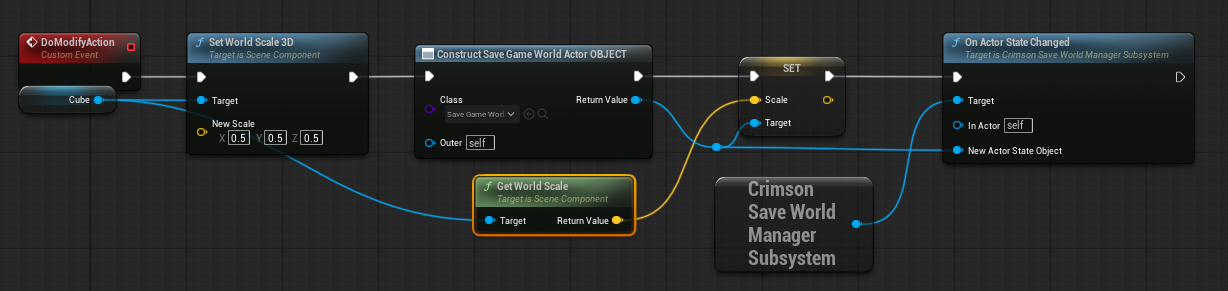
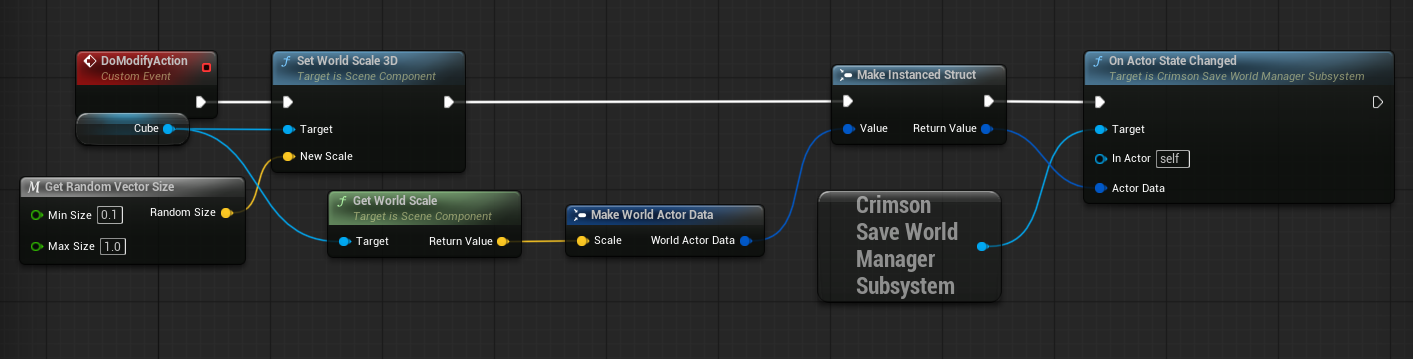
Update FInstancedStruct changes.

diff --git a/homepage/saving-world-data-bp.html b/homepage/saving-world-data-bp.html
@@ -32,17 +32,16 @@
             <p>This guide is for Blueprints. For a C++ approach, <a href="saving-world-data-cpp.html">see the C++ guide</a>.</p>
         </div>
 
-        <h2>Step 1: Create Your Actor Data Object (Optional)</h2>
-        <p>The manager stores a <code>UObject*</code> payload for each actor. It's good practice to create a simple <code>UObject</code> Blueprint to hold this data.</p>
+        <h2>Step 1: Create Your Actor Data Struct (Optional)</h2>
+        <p>The manager stores an <code>FInstancedStruct</code> payload for each actor. It's good practice to create a simple <strong>Struct</strong> Blueprint to hold this data.</p>
         <ol>
-            <li>Right-click in the Content Browser -> <strong>Blueprint Class</strong>.</li>
-            <li>Select <strong>Object</strong> as the parent class.</li>
-            <li>Name it <code>BP_ChestData</code>.</li>
-            <li>Open it and add a variable <code>bHasBeenOpened</code> of type Boolean.</li>
+            <li>Right-click in the Content Browser -> <strong>Blueprints</strong> -> <strong>Structure</strong>.</li>
+            <li>Name it <code>Struct_WorldActorData</code>.</li>
+            <li>Open it and add a variable <code>Scale</code> of type Vector.</li>
         </ol>
         
         <h2>Step 2: Implement the Interface</h2>
-        <p>In your Actor Blueprint (e.g., <code>BP_SaveableChest</code>), add the <code>ICrimsonSaveableActor</code> interface.</p>
+        <p>In your Actor Blueprint (e.g., <code>SaveGame_WorldActor</code>), add the <code>ICrimsonSaveableActor</code> interface.</p>
         <ol>
             <li>Go to <strong>Class Settings</strong> in the toolbar.</li>
             <li>In the Details panel, find the "Interfaces" section.</li>
@@ -51,7 +50,7 @@
             <li>Click the "eye" icon to make it <strong>Instance Editable</strong>.</li>
         </ol>
         <div class="note">
-            <p><strong>CRITICAL:</strong> After placing <code>BP_SaveableChest</code> in your level, you <strong>must</strong> select it, go to the Details panel, and click the "Generate new GUID" button next to your <code>SaveID</code> variable. Each instance *must* have a unique ID.</p>
+            <p><strong>CRITICAL:</strong> After placing <code>SaveGame_WorldActor</code> in your level, you <strong>must</strong> select it, go to the Details panel, and click the "Generate new GUID" button next to your <code>SaveID</code> variable. Each instance *must* have a unique ID.</p>
         </div>
 
         <h2>Step 3: Implement Interface Functions</h2>
@@ -59,31 +58,30 @@
 
         <h3>GetSaveID</h3>
         <p>Double-click this function. Drag in your <code>SaveID</code> variable and connect it to the <code>Return Value</code>.</p>
-        <img src="assets/get-save-id.png" alt="Get SaveID" style="width: 100%;">
+        <img src="assets/get-save-id.png" alt="Get SaveID function returning the SaveID variable" style="width: 100%;">
 
         <h3>RestoreFromSaveData</h3>
-        <p>This function applies the saved data to your actor.</p>
+        <p>This function applies the saved data to your actor. The <code>Actor Data</code> input is now an <code>Instanced Struct</code>.</p>
         <ol>
-            <li>Drag off the <code>Actor Data</code> input pin and <code>Cast To BP_ChestData</code>.</li>
-            <li>If the cast succeeds, get the <code>bHasBeenOpened</code> variable from the <code>BP_ChestData</code>.</li>
-            <li>Set your actor's live variable (e.g., <code>bIsOpen</code>) with this saved value.</li>
-            <li>Call any events needed to visually update the chest (e.g., play the "open" animation).</li>
+            <li>Drag off the <code>Actor Data</code> input pin and use the <strong>Get Instanced Struct Value</strong> node.</li>
+            <li>Drag from the <code>Value</code> on this node and break it into its correct type, in this case <code>Struct_WorldActorData</code>.</li>
+            <li>Set your actor's live variable (e.g., <code>Scale</code>) with this saved value.</li>
+            <li>Call any events needed to visually update the actor (e.g., play the "scaling" animation).</li>
         </ol>
-        <img src="assets/restore-from-save-data.png" alt="Restore From Save Data" style="width: 100%;">
+        <img src="assets/restore-from-save-data.png" alt="Restore From Save Data using Get Struct Data node" style="width: 100%;">
 
         <h2>Step 4: Notify the Manager of Changes</h2>
         <p>Your actor *must* tell the <code>WorldManager</code> when its state changes. The manager doesn't poll; it relies on notifications.</p>
         <p>In your <code>OnInteract</code> or similar event:</p>
         <ol>
             <li>Get the <code>CrimsonSaveWorldManagerSubsystem</code>.</li>
-            <li><code>Create Object from Class</code> -> <code>BP_ChestData</code>.</li>
-            <li>Set the <code>bHasBeenOpened</code> on the new object to <code>true</code>.</li>
-            <li>Call <code>OnActorStateChanged</code> on the subsystem. Pass <code>self</code> for "In Actor" and the new <code>BP_ChestData</code> object for "New Actor State Object".</li>
+            <li>Use the <strong>Make Instanced Struct</strong> node. Set <code>Value</code> by making a  <code>Struct_WorldActorData</code> and setting is current <code>scale</code> value.</li>
+            <li>Call <code>OnActorStateChanged</code> on the subsystem. Pass <code>self</code> for "In Actor" and the return value from <strong>Make Instanced Struct</strong> for "Actor Data".</li>
         </ol>
-        <img src="assets/notify-world-manager.png" alt="Notify World Manager" style="width: 100%;">
+        <img src="assets/notify-world-manager.png" alt="Notify World Manager using Make Instanced Struct" style="width: 100%;">
 
-        <p>If your actor is destroyed, call <code>OnActorDestroyed</code> instead, passing <code>self</code>.</p>
-        <img src="assets/on-actor-destroyed.png" alt="On Actor Destroyed" style="width: 100%;">
+        <p>If your actor is destroyed, call <code>OnActorDestroyed</code> instead, passing <code>self</code> and an optional <code>Instanced Struct</code> for any final state.</p>
+        <img src="assets/on-actor-destroyed.png" alt="On Actor Destroyed node" style="width: 100%;">
 
         <div class="navigation-buttons">
             <a href="saving-world-data-cpp.html" class="nav-button">← Saving World Data (C++)</a>

diff --git a/homepage/saving-world-data-cpp.html b/homepage/saving-world-data-cpp.html
@@ -31,19 +31,19 @@
             <p>This guide is for C++ programmers. For a Blueprint-only approach, <a href="saving-world-data-bp.html">see the Blueprint guide</a>.</p>
         </div>
 
-        <h2>Step 1: Create Your Actor Data Object (Optional)</h2>
-        <p>The manager stores a <code>UObject*</code> payload for each actor. It's good practice to create a simple <code>UObject</code> class to hold this data.</p>
+        <h2>Step 1: Create Your Actor Data Struct (Optional)</h2>
+        <p>The manager stores an <code>FInstancedStruct</code> payload for each actor. It's good practice to create a simple <code>USTRUCT</code> to hold this data.</p>
 <pre><code>// MySaveableChestData.h
 #pragma once
 #include "MySaveableChestData.generated.h"
 
-UCLASS()
-class UMySaveableChestData : public UObject
+USTRUCT(BlueprintType)
+struct FMySaveableChestData
 {
     GENERATED_BODY()
 public:
     UPROPERTY()
-    bool bHasBeenOpened;
+    bool bHasBeenOpened = false;
 };
 </code></pre>
         
@@ -52,6 +52,7 @@ public:
 <pre><code>// MySaveableChest.h
 #pragma once
 #include "ICrimsonSaveableActor.h"
+#include "StructUtils/InstancedStruct.h"
 #include "MySaveableChest.generated.h"
 
 UCLASS()
@@ -63,7 +64,7 @@ public:
     // --- ICrimsonSaveableActor Interface ---
     virtual FGuid GetSaveID_Implementation() const override;
     virtual void ResetToDefaultState_Implementation() override;
-    virtual void RestoreFromSaveData_Implementation(UObject* ActorData) override;
+    virtual void RestoreFromSaveData_Implementation(const FInstancedStruct& ActorData) override;
     // --- End Interface ---
     
     // The actor's live property
@@ -89,9 +90,9 @@ FGuid AMySaveableChest::GetSaveID_Implementation() const
     return SaveID;
 }
 
-void AMySaveableChest::RestoreFromSaveData_Implementation(UObject* ActorData)
+void AMySaveableChest::RestoreFromSaveData_Implementation(const FInstancedStruct& ActorData)
 {
-    if (UMySaveableChestData* ChestData = Cast&lt;UMySaveableChestData&gt;(ActorData))
+    if (const FMySaveableChestData* ChestData = ActorData.GetPtr&lt;FMySaveableChestData&gt;())
     {
         this->bIsOpen = ChestData->bHasBeenOpened;
         
@@ -106,6 +107,7 @@ void AMySaveableChest::RestoreFromSaveData_Implementation(UObject* ActorData)
 <pre><code>// MySaveableChest.cpp
 #include "CrimsonSaveWorldManagerSubsystem.h"
 #include "MySaveableChestData.h"
+#include "StructUtils/InstancedStruct.h"
 
 void AMySaveableChest::OnInteract_OpenChest()
 {
@@ -117,26 +119,27 @@ void AMySaveableChest::OnInteract_OpenChest()
     // --- NOTIFY THE SAVE SYSTEM ---
     if (UCrimsonSaveWorldManagerSubsystem* WorldSaveManager = GetWorld()->GetSubsystem&lt;UCrimsonSaveWorldManagerSubsystem&gt;())
     {
-        // Create the payload object
-        UMySaveableChestData* ChestData = NewObject&lt;UMySaveableChestData&gt;();
-        ChestData->bHasBeenOpened = true;
+        // Create the payload struct
+        FMySaveableChestData ChestData;
+        ChestData.bHasBeenOpened = true;
         
-        // Send the new state to the manager
-        WorldSaveManager->OnActorStateChanged(this, ChestData);
+        // Send the new state to the manager, wrapped in an FInstancedStruct
+        WorldSaveManager->OnActorStateChanged(this, FInstancedStruct::Make(ChestData));
     }
 }
 </code></pre>
         <p>If your actor is permanently destroyed (like a breakable wall), you should call <code>OnActorDestroyed</code> instead.</p>
 <pre><code>// MyBreakableWall.cpp
 #include "CrimsonSaveWorldManagerSubsystem.h"
+#include "StructUtils/InstancedStruct.h"
 
 void AMyBreakableWall::OnTakeDamage_Destroy()
 {
     // --- NOTIFY THE SAVE SYSTEM ---
     if (UCrimsonSaveWorldManagerSubsystem* WorldSaveManager = GetWorld()->GetSubsystem&lt;UCrimsonSaveWorldManagerSubsystem&gt;())
     {
-        // Pass 'nullptr' as the payload, we just care that it's destroyed
-        WorldSaveManager->OnActorDestroyed(this, nullptr);
+        // Pass an empty FInstancedStruct, we just care that it's destroyed
+        WorldSaveManager->OnActorDestroyed(this, FInstancedStruct());
     }
     
     // ... (spawn effects, etc.)
